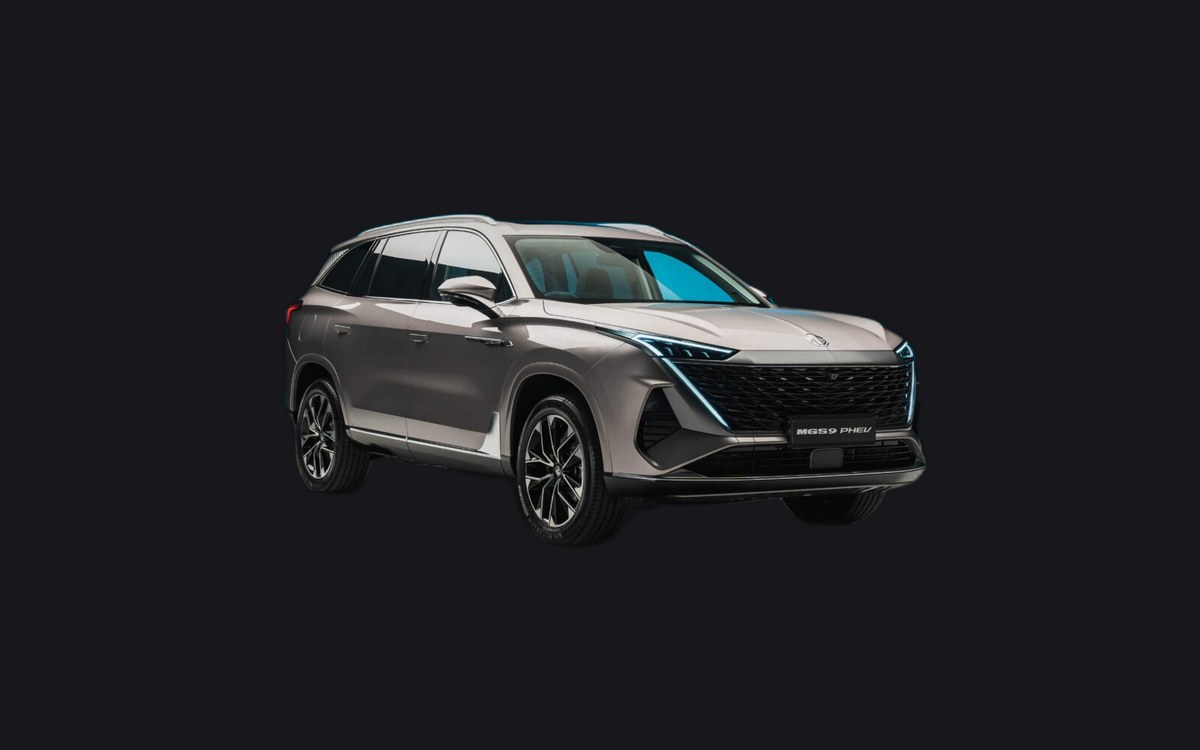
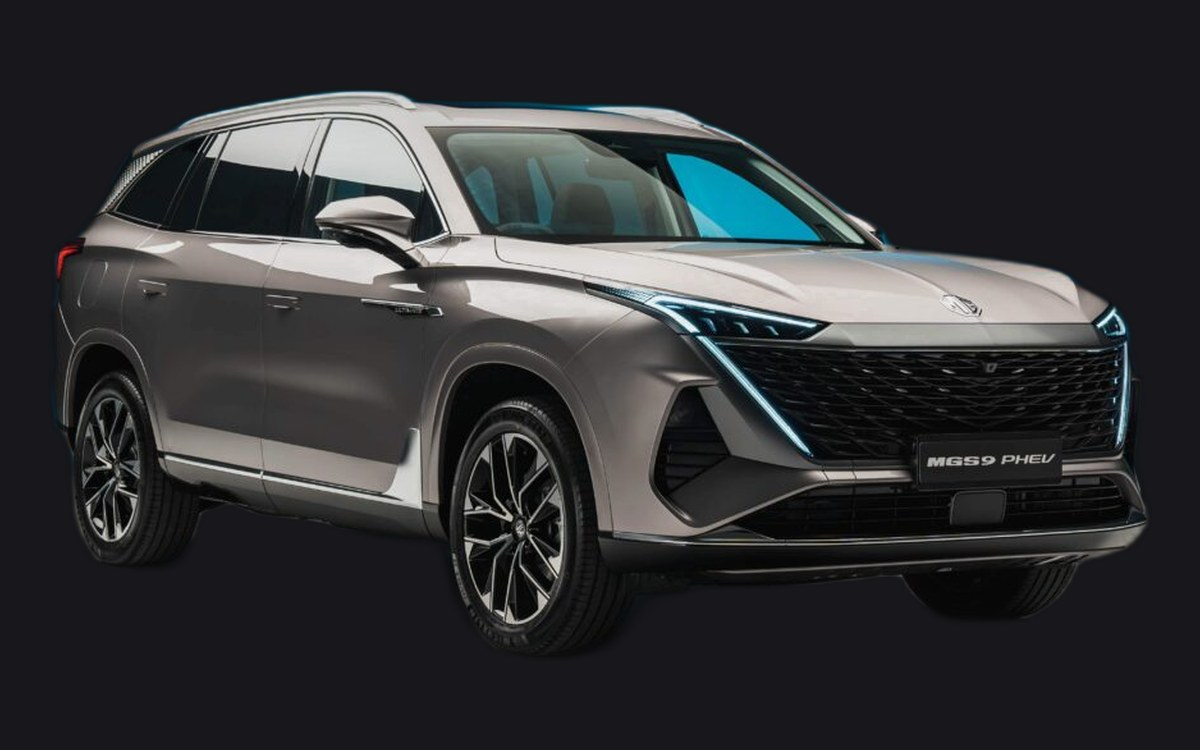
Header + homepage + cards UX pass
- Header: Comparar moves out of nav into a dark-grey button left of Chat con Holly
- Header: Asegurate con 500 link gets a pulsing red PROMO badge
- Header: nav hover adds a subtle white text glow
- Dropdown: MG / Maxus items indented (no longer flush left)
- Homepage: 'Holly Import' kept on one line via NBSP
- Homepage: 'Ver todos' moved next to 'Modelos destacados' title
- Homepage: 3-column @hollyimport Instagram showcase before footer
- Footer: 'Chat en linea' is now an <a> so it inherits the same font/size
- Cards: clicking anywhere on a card opens the detail dialog
- Detail dialog: PROMO badge on top-right when promoEligible
- Detail dialog: 'Hablar con asesor' renamed to 'Chat con Holly'
- mg-rx9 image: re-cut tighter so the SUV fills the frame
- Restore working Serie H source URL after the placeholder regression
- Add FLIP_HORIZONTAL hook (currently empty; mirroring breaks brand text)

Changed region(s): [[0.0308, 0.1227, 0.9558, 0.8587]]

diff --git a/static/css/holly.css b/static/css/holly.css
@@ -91,7 +91,7 @@ p  { margin: 0 0 .8em; }
   transition: opacity .15s, transform .15s, visibility 0s;
 }
 .hh__dropdown a {
-  display: block; padding: .55rem 1rem;
+  display: block; padding: .55rem 1.6rem .55rem 2rem;
   color: var(--c-text); text-decoration: none; font-size: .9rem;
   border-bottom: 0;
 }
@@ -101,8 +101,39 @@ p  { margin: 0 0 .8em; }
   text-decoration: none; color: var(--c-text); font-weight: 500; font-size: .95rem;
   padding: .35rem 0; border-bottom: 2px solid transparent; transition: color .15s, border-color .15s;
 }
-.hh__nav a:hover { color: var(--c-white); }
+.hh__nav a:hover { color: var(--c-white); text-shadow: 0 0 12px rgba(255,255,255,.55), 0 0 4px rgba(255,255,255,.85); }
 .hh__nav a.is-active { border-bottom-color: var(--c-crimson); color: var(--c-white); }
+
+/* Asegúrate-con-500 PROMO indicator on the nav link */
+.hh__promo-link { position: relative; padding-right: 1.2rem; }
+.hh__promo-badge {
+  position: absolute; top: -6px; right: -8px;
+  background: var(--c-crimson);
+  color: white;
+  font-size: .55rem; font-weight: 800; letter-spacing: .12em;
+  padding: 1px 5px; border-radius: 3px;
+  line-height: 1.4;
+  text-shadow: none;
+  box-shadow: 0 2px 8px rgba(200,16,46,.5);
+  animation: promo-pulse 2.4s ease-in-out infinite;
+}
+@keyframes promo-pulse {
+  0%, 100% { transform: scale(1); }
+  50%      { transform: scale(1.08); }
+}
+
+/* Comparar button (header, dark silver, sits left of the chat CTA) */
+.hh__cmp-btn {
+  background: #3a3a42; color: white; border: 1px solid #50505a;
+  padding: .6rem 1rem; border-radius: var(--r-sm);
+  font-weight: 600; font-size: .9rem; text-decoration: none;
+  transition: background .15s, border-color .15s;
+}
+.hh__cmp-btn:hover { background: #4a4a55; border-color: var(--c-crimson); }
+.hh__cmp-btn.is-active { border-color: var(--c-crimson); }
+@media (max-width: 880px) {
+  .hh__cmp-btn { display: none; }
+}
 .hh__chat-btn {
   background: var(--c-crimson); color: white; border: 0; padding: .6rem 1rem;
   border-radius: var(--r-sm); font-weight: 600; cursor: pointer; font-size: .9rem;
@@ -273,7 +304,18 @@ p  { margin: 0 0 .8em; }
 .section--alt { background: var(--c-card); margin: 0; max-width: none; padding: 3rem 1rem; }
 .section--alt > * { max-width: var(--maxw); margin-left: auto; margin-right: auto; }
 .section__head { display: flex; align-items: baseline; justify-content: space-between; margin-bottom: 1.5rem; gap: 1rem; }
+.section__head--inline { justify-content: flex-start; }
+.section__head--inline .section__more {
+  margin-left: 1.2rem;
+  font-size: .9rem;
+  font-family: 'Inter', sans-serif;
+  font-weight: 500;
+  letter-spacing: 0;
+  text-transform: none;
+  vertical-align: middle;
+}
 .section__more { color: var(--c-crimson-2); text-decoration: none; font-weight: 500; }
+.section__more:hover { text-decoration: underline; }
 
 .page-head { max-width: var(--maxw); margin: 0 auto; padding: 3rem 1.2rem 1rem; }
 .page-head--promo { padding-top: 4.5rem; }
@@ -309,6 +351,20 @@ p  { margin: 0 0 .8em; }
   font-size: .7rem; font-weight: 700;
   padding: .25rem .55rem; border-radius: var(--r-sm);
   letter-spacing: .08em; text-transform: uppercase;
+}
+.card { cursor: pointer; }
+.card__cta button, .card__cta a { cursor: pointer; }
+
+/* PROMO ribbon for the model detail dialog top-right corner */
+.mdl__promo {
+  position: absolute; top: .9rem; right: 3rem;
+  background: var(--c-crimson); color: white;
+  font-size: .7rem; font-weight: 800; letter-spacing: .14em;
+  padding: .35rem .7rem; border-radius: var(--r-sm);
+  box-shadow: 0 4px 14px rgba(200,16,46,.45);
+  z-index: 3;
+  text-transform: uppercase;
+  animation: promo-pulse 2.4s ease-in-out infinite;
 }
 .card__body { padding: 1rem 1.1rem 1.2rem; display: flex; flex-direction: column; gap: .5rem; flex: 1; }
 .card__brand { color: var(--c-crimson-2); font-size: .75rem; font-weight: 700; letter-spacing: .15em; text-transform: uppercase; }
@@ -348,8 +404,45 @@ p  { margin: 0 0 .8em; }
 .hf__cols a:hover { color: var(--c-white); }
 .hf h4 { color: var(--c-white); }
 .hf__base { max-width: var(--maxw); margin: 2rem auto 0; padding-top: 1.2rem; border-top: 1px solid var(--c-line); display: flex; justify-content: space-between; gap: 1rem; flex-wrap: wrap; color: var(--c-muted); }
-.hf__link { background: transparent; border: 0; color: var(--c-muted); padding: 0; cursor: pointer; font-family: inherit; }
-.hf__link:hover { color: var(--c-white); }
+
+/* ---------- Instagram showcase ---------- */
+.ig {
+  max-width: var(--maxw); margin: 0 auto;
+  padding: 3rem 1.2rem 1rem;
+}
+.ig__head {
+  display: flex; align-items: flex-end; justify-content: space-between;
+  gap: 1rem; margin-bottom: 1.6rem; flex-wrap: wrap;
+}
+.ig__title { margin: 0; }
+.ig__grid {
+  display: grid; gap: 1.4rem;
+  grid-template-columns: repeat(3, 1fr);
+}
+@media (max-width: 880px) { .ig__grid { grid-template-columns: 1fr; } }
+
+.ig-card {
+  background: var(--c-card); border: 1px solid var(--c-line);
+  border-radius: var(--r-md); overflow: hidden;
+  text-decoration: none; color: inherit;
+  display: flex; flex-direction: column;
+  transition: transform .2s, border-color .2s, box-shadow .2s;
+}
+.ig-card:hover { transform: translateY(-3px); border-color: var(--c-crimson); box-shadow: var(--shadow-card); }
+.ig-card__img { aspect-ratio: 1 / 1; background: #0e0e12; position: relative; overflow: hidden; }
+.ig-card__img img { width: 100%; height: 100%; object-fit: cover; transition: transform .3s; }
+.ig-card:hover .ig-card__img img { transform: scale(1.04); }
+.ig-card__icon {
+  position: absolute; top: .65rem; right: .65rem;
+  width: 32px; height: 32px;
+  display: grid; place-items: center;
+  background: rgba(10,10,14,.65);
+  color: white; border-radius: 50%;
+  backdrop-filter: blur(6px);
+}
+.ig-card__body { padding: 1rem 1.1rem 1.2rem; }
+.ig-card__caption { color: var(--c-text); font-size: .92rem; line-height: 1.5; margin: 0 0 .6rem; }
+.ig-card__tags { color: var(--c-crimson-2); font-size: .82rem; }
 
 /* ---------- chat side modal ---------- */
 

diff --git a/templates/_base.html b/templates/_base.html
@@ -30,11 +30,13 @@
           <li role="none"><a role="menuitem" href="{{ root_path }}/modelos?marca=Maxus">Maxus</a></li>
         </ul>
       </div>
-      <a href="{{ root_path }}/comparar" class="{% if page=='comparar' %}is-active{% endif %}">Comparar</a>
       <a href="{{ root_path }}/servicio" class="{% if page=='servicio' %}is-active{% endif %}">Taller</a>
-      <a href="{{ root_path }}/promocion" class="{% if page=='promocion' %}is-active{% endif %}">Asegúrate con 500</a>
+      <a href="{{ root_path }}/promocion" class="hh__promo-link {% if page=='promocion' %}is-active{% endif %}">
+        Asegúrate con 500<span class="hh__promo-badge" aria-label="Promoción">PROMO</span>
+      </a>
       <a href="{{ root_path }}/contacto" class="{% if page=='contacto' %}is-active{% endif %}">Contacto</a>
     </nav>
+    <a href="{{ root_path }}/comparar" class="hh__cmp-btn{% if page=='comparar' %} is-active{% endif %}">Comparar</a>
     <button class="hh__chat-btn" id="open-chat" type="button">
       Chat con Holly
     </button>
@@ -45,6 +47,46 @@
 <main>
   {% block content %}{% endblock %}
 </main>
+
+<section class="ig" aria-label="Holly Import en Instagram">
+  <div class="ig__head">
+    <div>
+      <span class="hero__eyebrow">Síguenos</span>
+      <h2 class="ig__title">@hollyimport en Instagram</h2>
+    </div>
+    <a class="btn btn--ghost" href="https://instagram.com/hollyimport" target="_blank" rel="noopener">Visitar perfil →</a>
+  </div>
+  <div class="ig__grid">
+    {% for post in ig_posts|default([
+      {"image": "static/img/models/mg-rx9.jpg",
+       "caption": "El nuevo MG RX9 ya está en sala. SUV insignia, 240 hp y suspensión adaptativa. Agenda una prueba de manejo.",
+       "tags": "#MG #RX9 #HollyImport"},
+      {"image": "static/img/models/maxus-t90.jpg",
+       "caption": "Maxus T90 — la pickup que combina la rudeza del trabajo con el confort de un SUV. 215 hp, 4x4, AT 8 vel.",
+       "tags": "#Maxus #T90 #Pickup"},
+      {"image": "static/img/models/mg-cyberster.jpg",
+       "caption": "Edición exclusiva: MG Cyberster eléctrico. 0–100 km/h en 3.2s, puertas tipo tijera, AWD. Cupos limitados.",
+       "tags": "#MG #Cyberster #EV"},
+    ]) %}
+    <a class="ig-card" href="https://instagram.com/hollyimport" target="_blank" rel="noopener">
+      <div class="ig-card__img">
+        <img src="{{ root_path }}/{{ post.image }}" alt="" loading="lazy">
+        <span class="ig-card__icon" aria-hidden="true">
+          <svg viewBox="0 0 24 24" width="22" height="22" fill="none" stroke="currentColor" stroke-width="1.8">
+            <rect x="3" y="3" width="18" height="18" rx="5"/>
+            <circle cx="12" cy="12" r="4"/>
+            <circle cx="17.5" cy="6.5" r="1" fill="currentColor"/>
+          </svg>
+        </span>
+      </div>
+      <div class="ig-card__body">
+        <p class="ig-card__caption">{{ post.caption }}</p>
+        <span class="ig-card__tags">{{ post.tags }}</span>
+      </div>
+    </a>
+    {% endfor %}
+  </div>
+</section>
 
 <footer class="hf">
   <div class="hf__cols">
@@ -74,7 +116,7 @@
       <h4>Contacto</h4>
       <ul>
         <li><a href="{{ root_path }}/contacto">Formulario</a></li>
-        <li><button class="hf__link" type="button" data-open-chat>Chat en línea</button></li>
+        <li><a href="#" data-open-chat>Chat en línea</a></li>
       </ul>
     </div>
   </div>

diff --git a/static/js/main.js b/static/js/main.js
@@ -101,10 +101,22 @@
   const modelDialog = document.getElementById("model-dialog");
   const modelDialogBody = document.getElementById("model-dialog-body");
 
+  // Open the detail dialog when the user clicks anywhere on a card (but
+  // not on the inner buttons / chat triggers, which have their own actions).
   document.addEventListener("click", async (e) => {
+    let id = null;
     const trigger = e.target.closest("[data-model-detail]");
-    if (!trigger || !modelDialog) return;
-    const id = trigger.dataset.modelDetail;
+    if (trigger) {
+      id = trigger.dataset.modelDetail;
+    } else {
+      const card = e.target.closest(".card[data-model-id], .card[data-brand]");
+      if (card && !e.target.closest("button, a")) {
+        id = card.dataset.modelId
+          || card.querySelector("[data-model-detail]")?.dataset.modelDetail
+          || card.querySelector("[data-ask-price]")?.dataset.askPrice;
+      }
+    }
+    if (!id || !modelDialog) return;
     modelDialogBody.innerHTML = `<div class="mdl"><p>Cargando…</p></div>`;
     modelDialog.showModal();
     try {
@@ -124,9 +136,12 @@
     const highlights = (m.highlights || [])
       .map(h => `<li>${escapeHtml(h)}</li>`)
       .join("");
-    const promoTag = m.promoEligible
-      ? `<span class="card__badge" style="position:static;display:inline-block;margin-bottom:.5rem">Asegúrate con 500</span>` : "";
+    const promoBadge = m.promoEligible
+      ? `<span class="mdl__promo" title="Asegúrate con 500">PROMO</span>` : "";
+    const promoNote = m.promoEligible
+      ? `<p class="card__tag" style="color:var(--c-crimson-2);font-weight:600">Aplica Asegúrate con 500</p>` : "";
     return `
+      ${promoBadge}
       <div class="mdl">
         <div class="mdl__img">
           <img src="${BASE}/${escapeAttr(m.image)}" alt="${escapeAttr(m.name)}"
@@ -136,13 +151,13 @@
           <span class="card__brand">${escapeHtml(m.brand)}</span>
           <h3>${escapeHtml(m.name)}</h3>
           <p class="card__tag">${escapeHtml(m.tagline || "")}</p>
-          ${promoTag}
+          ${promoNote}
           <ul class="mdl__specs">${specs}</ul>
           <h4 style="text-transform:none;letter-spacing:0;color:var(--c-white);font-family:Inter">Equipamiento destacado</h4>
           <ul class="mdl__highlights">${highlights}</ul>
           <div class="mdl__cta">
             <button class="btn btn--primary" type="button" data-ask-price="${escapeAttr(m.id)}" data-close-on-ask>Solicitar precio</button>
-            <button class="btn btn--ghost" type="button" data-open-chat data-chat-model="${escapeAttr(m.id)}">Hablar con asesor</button>
+            <button class="btn btn--ghost" type="button" data-open-chat data-chat-model="${escapeAttr(m.id)}">Chat con Holly</button>
           </div>
         </div>
       </div>`;

diff --git a/templates/inicio.html b/templates/inicio.html
@@ -45,7 +45,7 @@
   <div class="hero-secondary">
     <div>
       <span class="hero__eyebrow">Concesionario autorizado MG y Maxus</span>
-      <h2 class="hero-secondary__title">Tu próximo vehículo te espera en <span>Holly Import</span>.</h2>
+      <h2 class="hero-secondary__title">Tu próximo vehículo te espera en <span class="hero-secondary__brand">Holly&nbsp;Import</span>.</h2>
       <p class="hero-secondary__lead">Línea completa MG y Maxus en Los Palos Grandes. Ventas, servicio técnico y planes de financiamiento.</p>
       <div class="hero__cta">
         <a class="btn btn--primary" href="{{ root_path }}/modelos">Ver vehículos</a>
@@ -62,9 +62,8 @@
 </section>
 
 <section class="section">
-  <div class="section__head">
-    <h2>Modelos destacados</h2>
-    <a class="section__more" href="{{ root_path }}/modelos">Ver todos →</a>
+  <div class="section__head section__head--inline">
+    <h2>Modelos destacados <a class="section__more" href="{{ root_path }}/modelos">Ver todos →</a></h2>
   </div>
   <div class="grid grid--cards">
     {% for m in featured %}

diff --git a/scripts/fetch_images.py b/scripts/fetch_images.py
@@ -72,14 +72,21 @@ SOURCES: dict[str, list[str]] = {
     "maxus-serie-c":   ["https://maxusve.com/wp-content/uploads/2024/07/Maxus-C100.png",
                         "https://maxusve.com/wp-content/uploads/2024/07/C_100.png"],
     "maxus-serie-s":   ["https://maxusve.com/wp-content/uploads/2024/07/S50.png"],
-    "maxus-serie-h":   ["https://maxusve.com/wp-content/uploads/2024/07/SERIE__H4.png",
-                        "https://maxusve.com/wp-content/uploads/2024/07/SERIE__H6.png",
-                        "https://maxusve.com/wp-content/uploads/2024/07/SERIE__H-1.png"],
+    # The "SERIE__H*" filenames on the dealer site are wordmark placeholders;
+    # this opaquely-named file is the only real product photo of the truck.
+    "maxus-serie-h":   ["https://maxusve.com/wp-content/uploads/2024/07/19163747gdhg.png"],
 }
 
 # Normalization target — every gallery image lands at this exact size + backdrop.
 TARGET_W, TARGET_H = 1200, 750
 BG_RGB = (24, 24, 28)   # site card colour (#18181c) so cards look seamless
+
+# Mechanism for mirroring photos that face the wrong direction. Currently
+# empty: a naive horizontal flip mirrors brand badges and license plates,
+# which reads worse than mixed orientations. To get uniform direction,
+# either source matching photos via process_local_images.py or replace
+# specific URLs above with right-facing variants.
+FLIP_HORIZONTAL: set[str] = set()
 
 UA = "Mozilla/5.0 (compatible; HollyImportFetcher/1.0)"
 
@@ -105,15 +112,12 @@ def ext_from_url(url: str) -> str:
     return suffix if suffix in (".jpg", ".jpeg", ".png", ".webp") else ".png"
 
 
-def normalize_image(path: Path) -> tuple[bool, str]:
+def normalize_image(path: Path, model_id: str = "") -> tuple[bool, str]:
     """Resize + pad an image to TARGET_W x TARGET_H on the site backdrop.
 
     Scale-to-fit (never crop, never upscale beyond source); centre on a solid
-    #18181c canvas. Output is JPEG so all gallery images end up the same
-    format and roughly the same byte size, which makes the page network
-    cost predictable.
-
-    On success the file is replaced in-place with a .jpg suffix.
+    #18181c canvas. If model_id is in FLIP_HORIZONTAL the image is mirrored
+    so the car ends up facing right like the rest. Output is JPEG.
     """
     if not HAS_PIL:
         return False, "Pillow not installed (pip install Pillow)"
@@ -121,6 +125,10 @@ def normalize_image(path: Path) -> tuple[bool, str]:
         img = Image.open(path).convert("RGBA")
     except Exception as e:
         return False, f"open: {e}"
+
+    if model_id in FLIP_HORIZONTAL:
+        from PIL import ImageOps
+        img = ImageOps.mirror(img)
 
     src_w, src_h = img.size
     scale = min(TARGET_W / src_w, TARGET_H / src_h, 1.0)
@@ -202,7 +210,7 @@ def main(argv: list[str]) -> int:
             continue
 
         if do_norm:
-            success, info = normalize_image(raw)
+            success, info = normalize_image(raw, model_id=mid)
             if success:
                 print(f"     -> normalized {info}")
                 ok += 1
